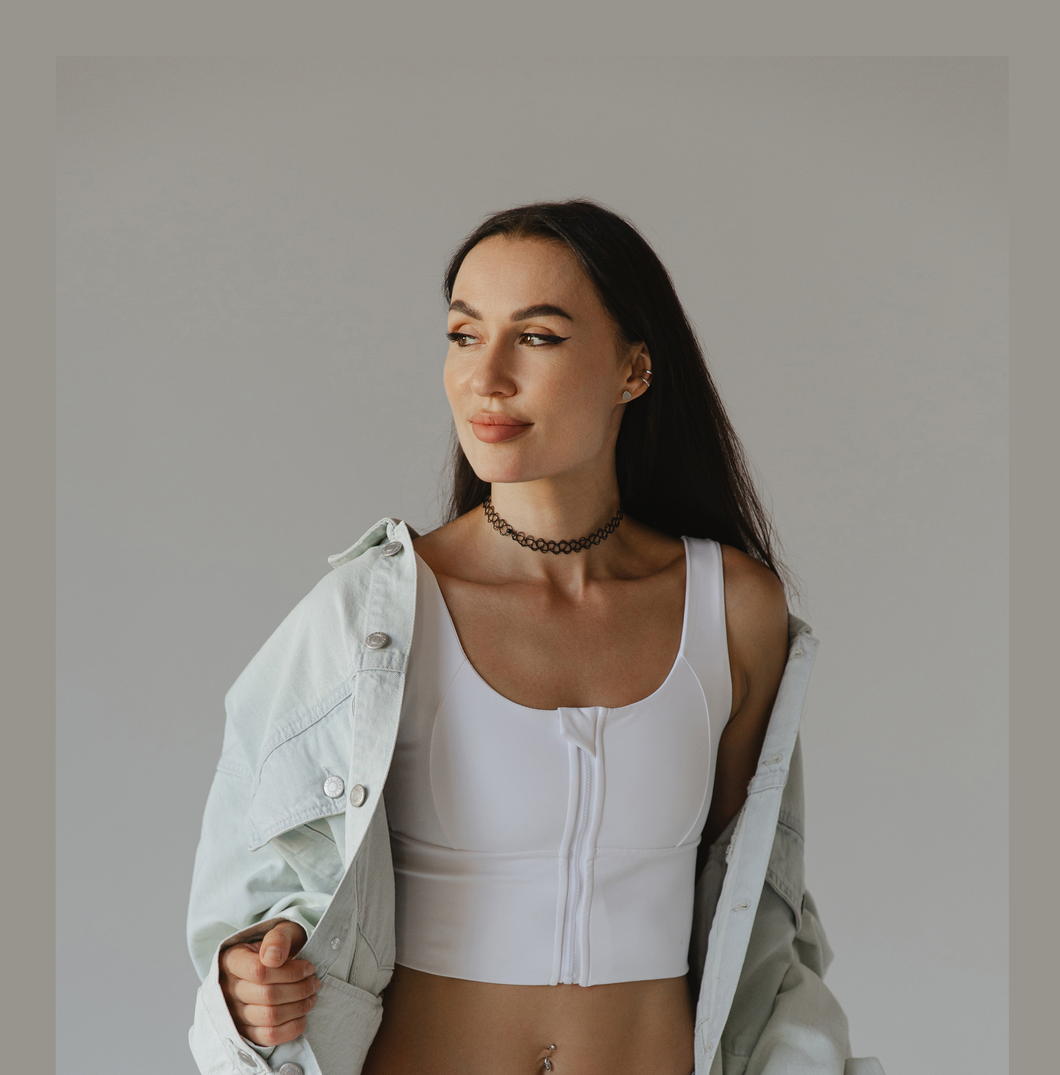
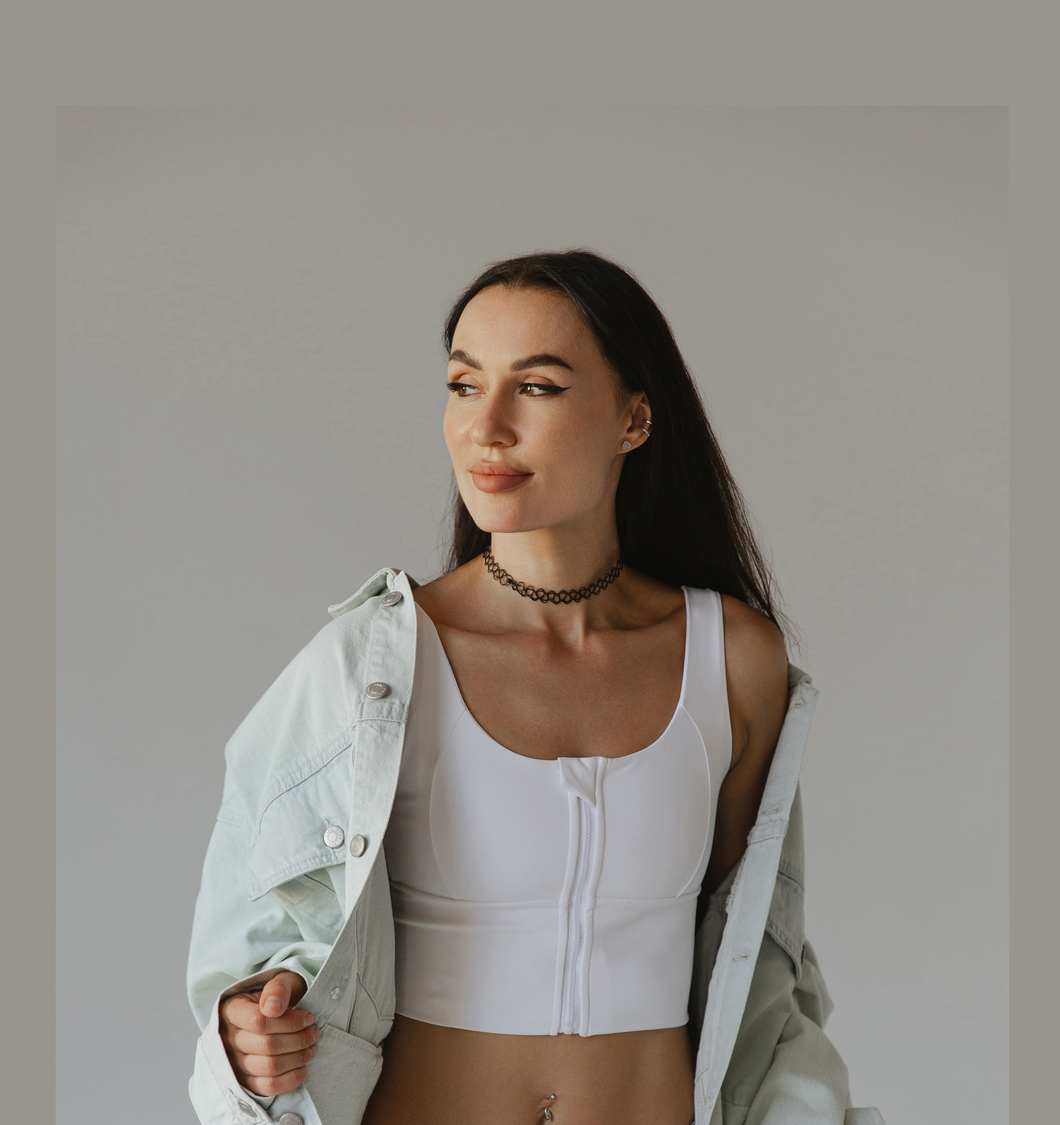
Add files via upload

diff --git a/index.html b/index.html
@@ -455,7 +455,7 @@
                 <!-- Тренер 6 -->
                 <div class="team-card">
                     <div class="team-image">
-                        <img src="главная-лого-сейчас_стоит.png" 
+                        <img src="браженко2.0.jpg" 
                              alt="Браженко Анастасия, хореограф" 
                              loading="lazy">
                     </div>
@@ -471,7 +471,7 @@
                 <!-- Тренер 7 -->
                 <div class="team-card">
                     <div class="team-image">
-                        <img src="главная-лого-сейчас_стоит.png" 
+                        <img src="черникова2.0.jpg" 
                              alt="Черникова Милана, хореограф" 
                              loading="lazy">
                     </div>
